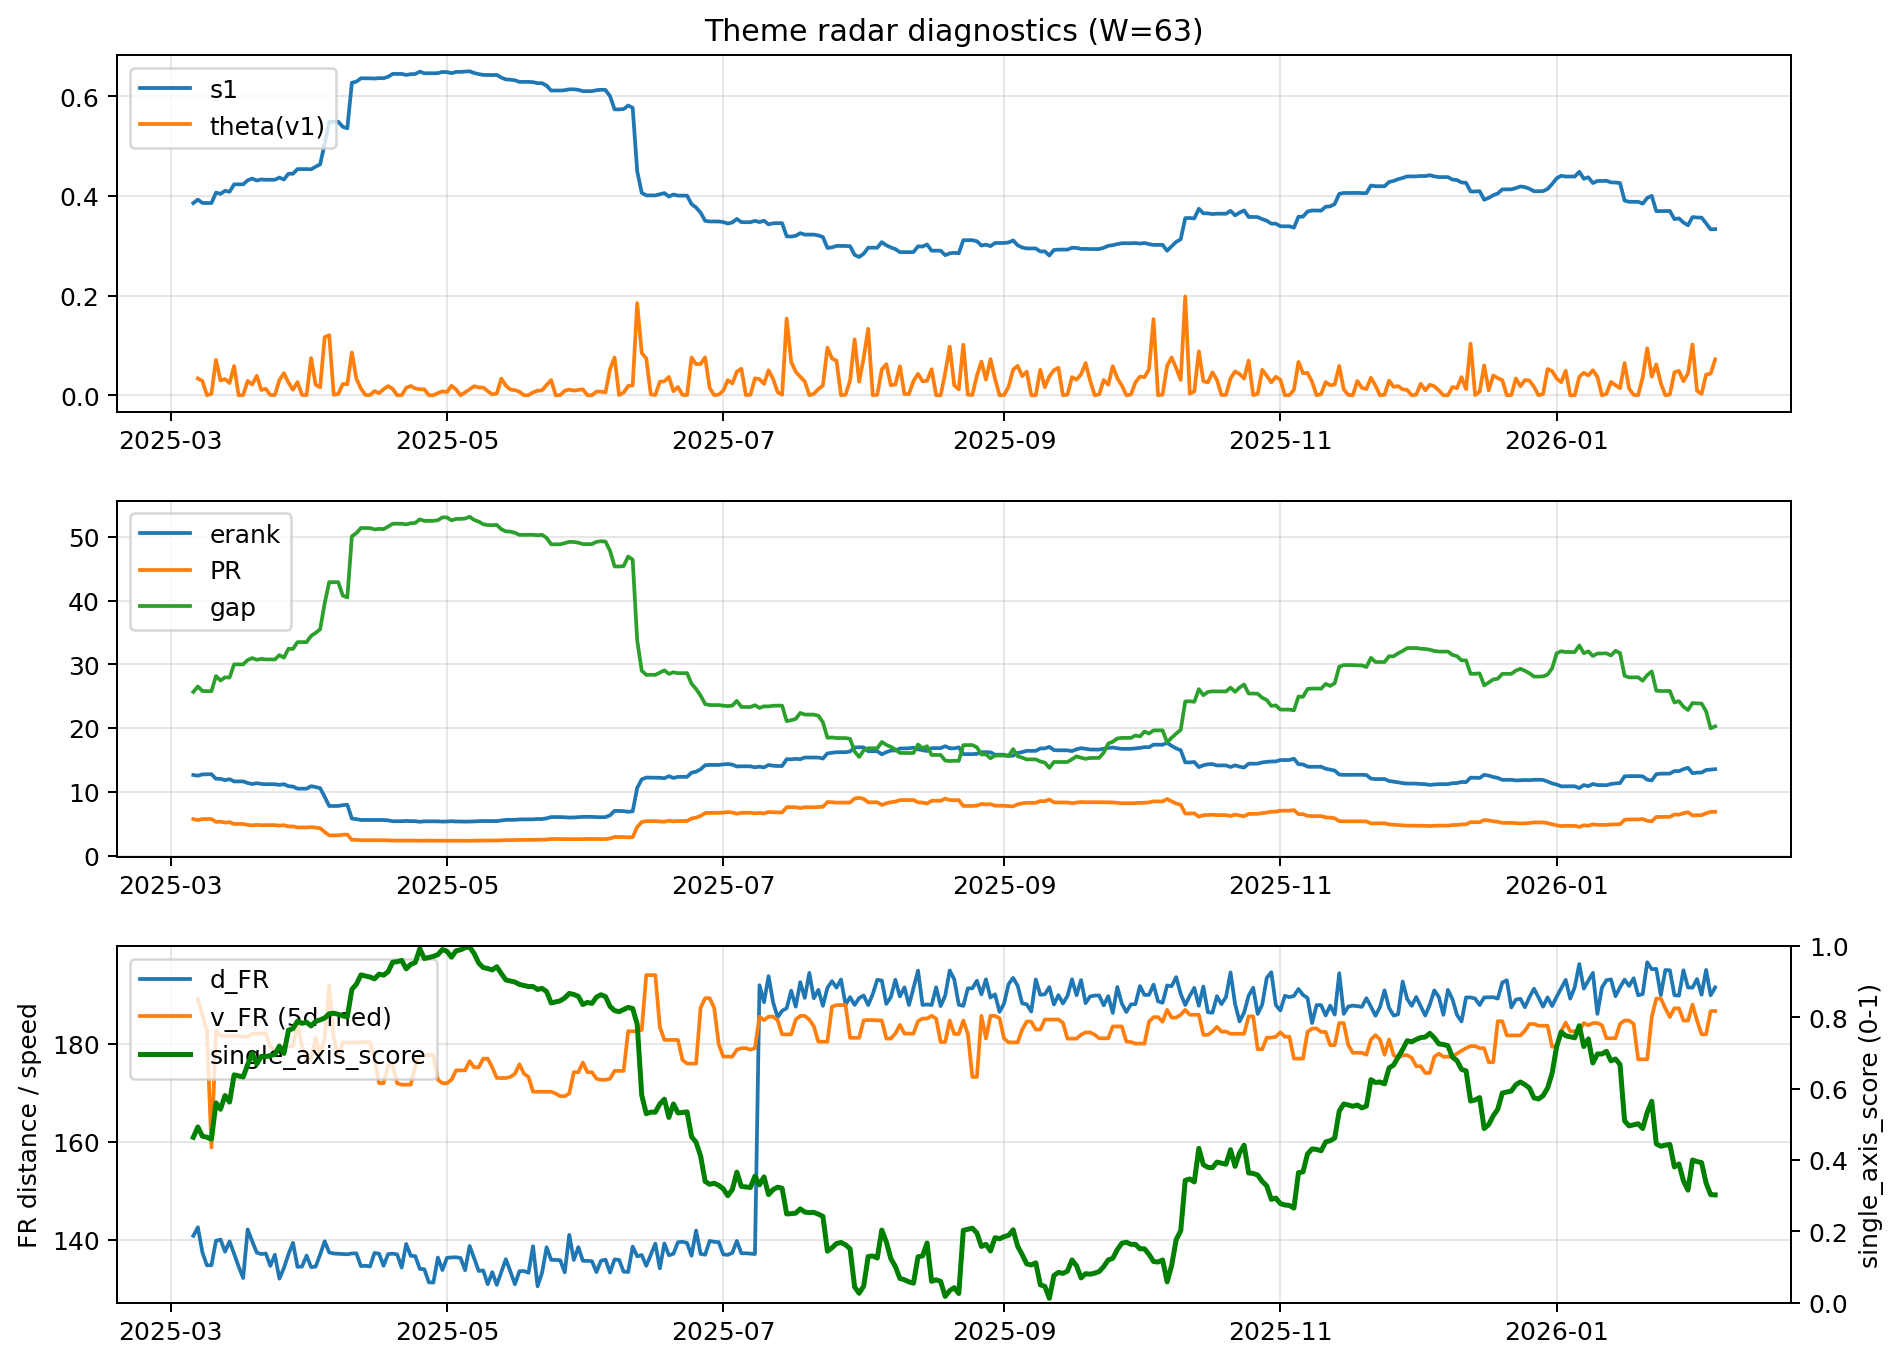
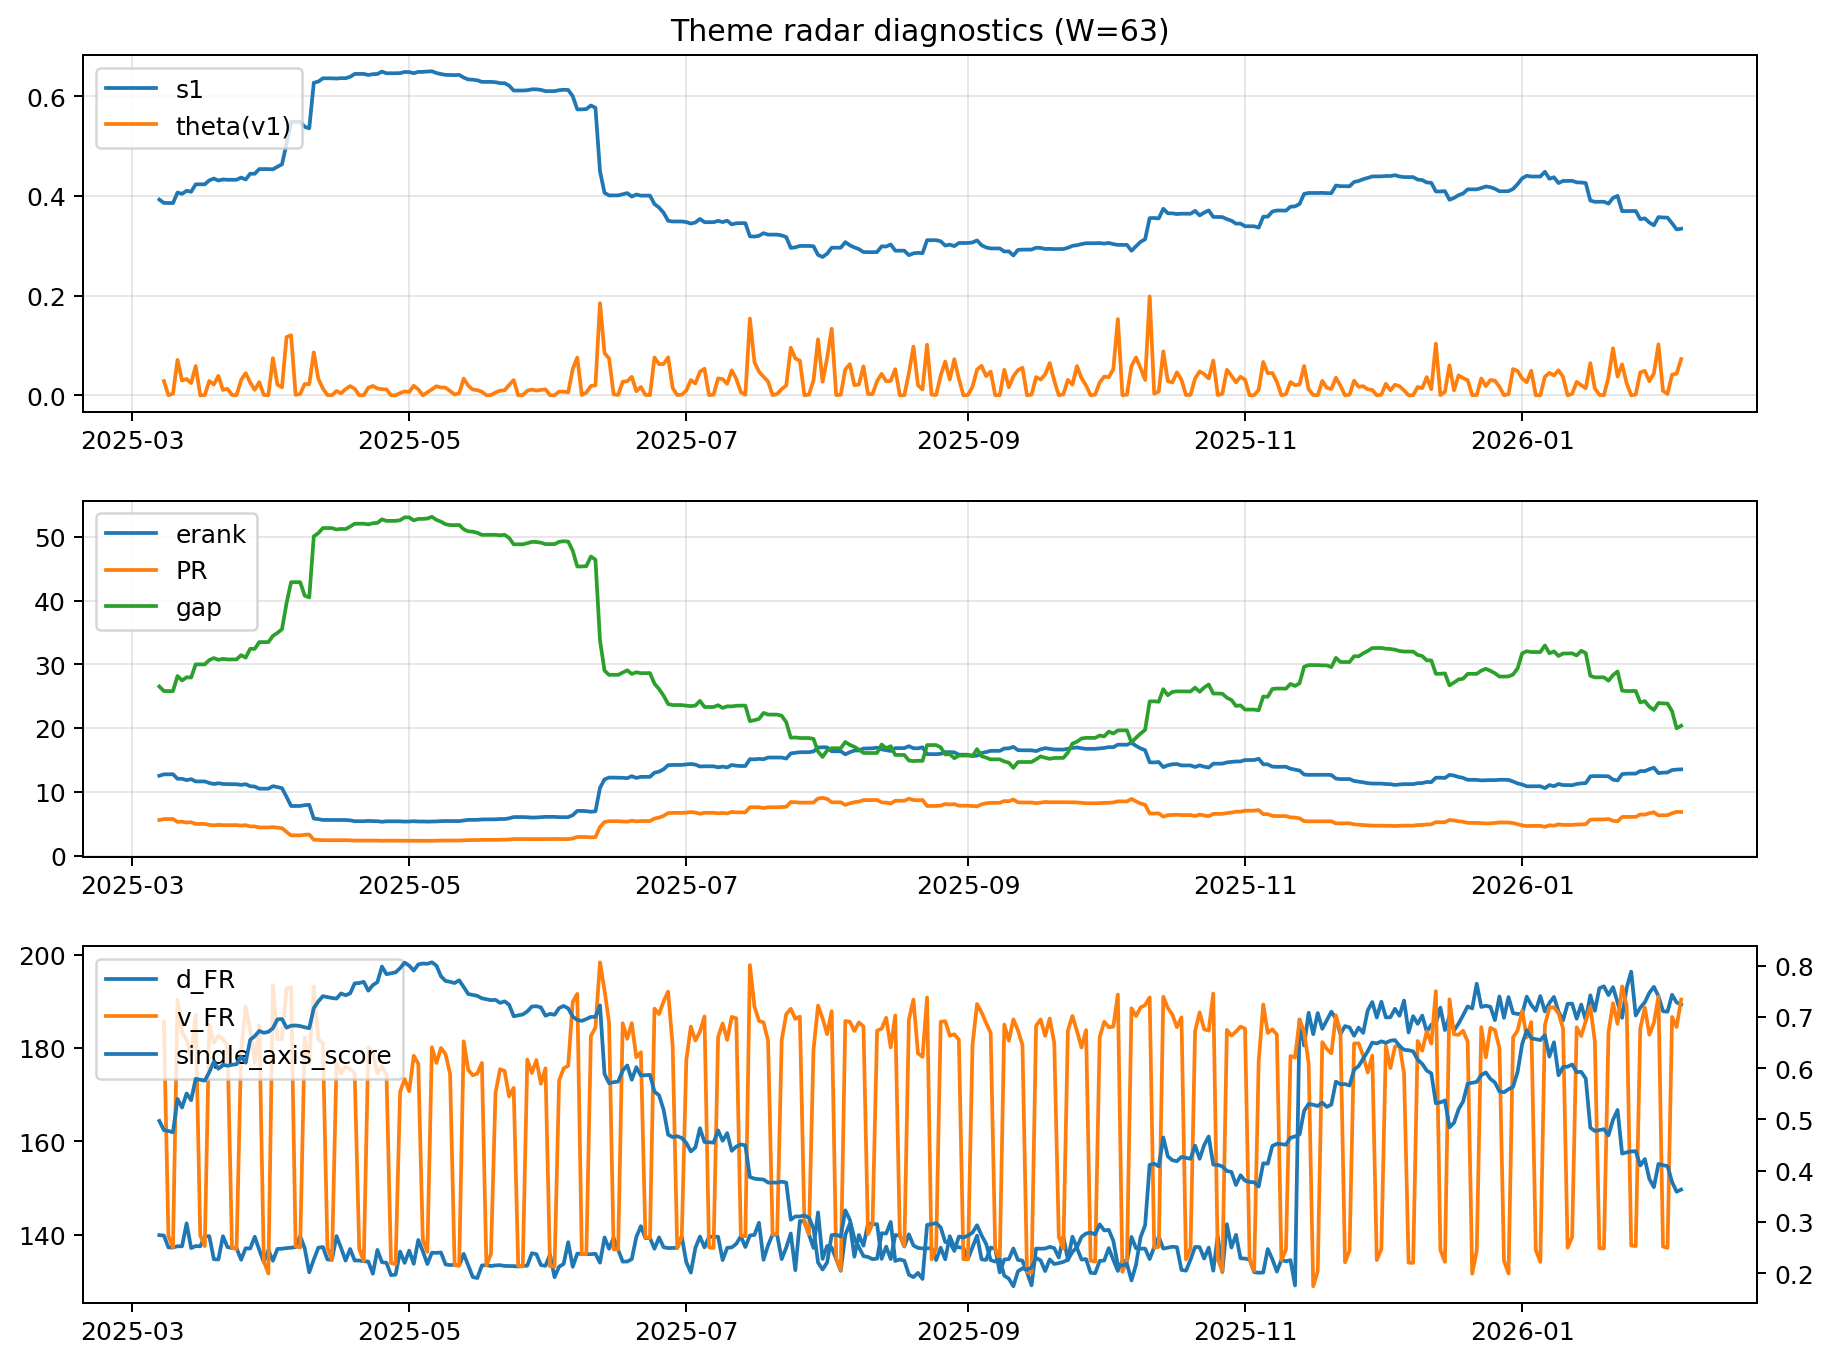
log: 2026-02-05 | sha256:c4568ef721ee6ab896e9f595073cc1a89eafc06fecd6f5df56a7b1e16b6e7231

diff --git a/logs/2026-02-05.md b/logs/2026-02-05.md
@@ -3,52 +3,52 @@
 ![diagnostic W63](../assets/diagnostic/2026-02-05_W63.png)
 
 ## Leaders (v1) — W=63
-- **Nuclear_Uranium** (0.0936808849174516)
-- Semis (0.0755669214302146)
-- Space (0.0607699814132979)
+- **Nuclear_Uranium** (0.0936083611605275)
+- Semis (0.0754996800377874)
+- Space (0.0606631617832546)
 
 ## Challengers — W=63
-**v2:** Metals (0.0789263542458155), MegaCap_AI (0.0743813930326627), Software_Cloud (0.066605860790929)
-**v3:** Quantum (0.0809752288057935), Rates (0.0788309164283025), Software_Cloud (0.0639747809245419)
+**v2:** Metals (0.0794915347589299), MegaCap_AI (0.0744588577457715), Software_Cloud (0.067030174617277)
+**v3:** Quantum (0.0805376433600015), Rates (0.078889196612428), Software_Cloud (0.0625175969096312)
 
 ## Migration (20D slope) — W=63
 **Top risers:**
-- axis_Nuclear_Uranium: 0.0003889901268509
-- axis_Metals: 0.0003406582601691
-- axis_Rates: 0.0003016750661514
-- axis_Semis: 0.0002633129752185
-- axis_Sector_ConsStap: 0.0001715237345066
-- axis_Space: 0.0001628030532918
-- axis_Robotics: 0.0001578815876078
-- axis_Equity_ExUS: 0.0001508058928364
-- axis_DataCenter_Infra: 0.0001369771457417
-- axis_Clean_Wind: 0.0001147725278878
+- axis_Nuclear_Uranium: 0.000387950840577
+- axis_Metals: 0.0003386920666833
+- axis_Rates: 0.0003012779261774
+- axis_Semis: 0.0002623507427531
+- axis_Sector_ConsStap: 0.0001716674432012
+- axis_Space: 0.0001612749304632
+- axis_Robotics: 0.0001564014531353
+- axis_Equity_ExUS: 0.0001494825568143
+- axis_DataCenter_Infra: 0.0001348627113979
+- axis_Clean_Wind: 0.0001143233998497
 
 **Top fallers:**
-- axis_Commodities: -7.680377084424655e-05
-- axis_Grid_Power: -8.759225932968454e-05
-- axis_Miners: -0.0001763040353658
-- axis_Sector_Fin: -0.0001793320161611
-- axis_Sector_RealEstate: -0.0001871583949358
-- axis_Cyber: -0.0002188598964413
-- axis_Sector_Health: -0.0002347328537236
-- axis_Crypto: -0.0002540148388942
-- axis_Software_Cloud: -0.0003041379135924
-- axis_Sector_Comm: -0.0003505899035571
+- axis_Commodities: -7.76539227564801e-05
+- axis_Grid_Power: -9.016988751400608e-05
+- axis_Miners: -0.0001774210790267
+- axis_Sector_Fin: -0.0001799719884484
+- axis_Sector_RealEstate: -0.0001878444318573
+- axis_Cyber: -0.0002189913401499
+- axis_Crypto: -0.0002252029941872
+- axis_Sector_Health: -0.0002352075708759
+- axis_Software_Cloud: -0.0003040972010023
+- axis_Sector_Comm: -0.0003505868908977
 
 ## Risk line (W=63)
-- s1: 0.3332785783079904
-- theta_v1: 0.0721093181512333
-- v_FR: 188.68103585120787
-- single_axis_score: 0.3019287833827893
+- s1: 0.3341651509336361
+- theta_v1: 0.0726715266179213
+- v_FR: 190.3760755414618
+- single_axis_score: 0.363095238095238
 
 ## Interpretation
-**Regime:** `theme_migration`
+**Regime:** `structure_rewrite`
 
 - Action: Tomorrow watchlist: Nuclear_Uranium, Metals, Rates, Semis, Sector_ConsStap + v2_top1=Metals
-- Action: Hedge note: normal correlation stability.
+- Action: Hedge note: v_FR high + theta high → correlation structure unstable; diversify hedges / reduce reliance on static correlations.
 
-- Percentiles (W=63 history): vfr_pct=0.89, theta_pct=0.92, s1_pct=0.27, score_pct=0.28.
+- Percentiles (W=63 history): vfr_pct=0.95, theta_pct=0.93, s1_pct=0.27, score_pct=0.24.
 
 ---
[2 lines of base64/hex data omitted]
